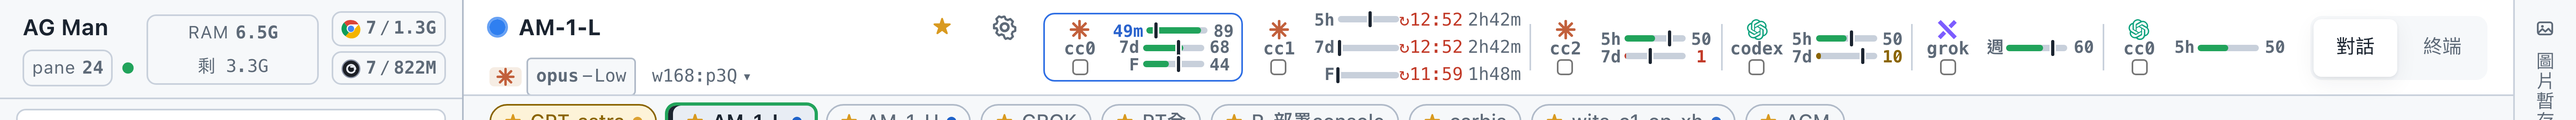
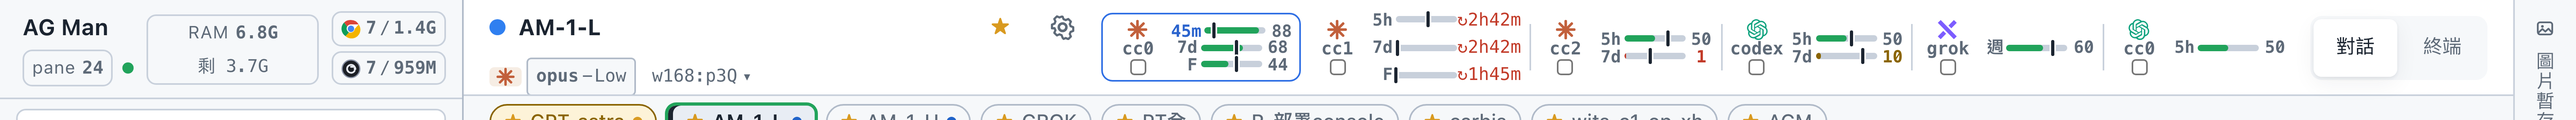
fix(quota): 用完那格只留倒數，不寫重置時刻
使用者 2026-09-14：「不需要重置時間，只要 xhym 就好」。鐘點要自己跟現在對照才知道還要等多久，
倒數本身就是答案；完整時刻留在滑鼠提示。

Claude-Session: https://claude.ai/code/session_015AsYKQxZHA6CNxAefNc7DK

diff --git a/web/src/lib/quotaReset.ts b/web/src/lib/quotaReset.ts
@@ -1,24 +1,12 @@
 /**
- * 「這一格已經沒額度了，幾點回來」——用完的視窗要寫出**重置時刻**並倒數（2026-09-14 使用者：
- * 「當已 0 且 reset 天數 < 3 小時，標示 3:25 的重置時間且自動倒數」）。
+ * 「這一格已經沒額度了，還要等多久」——用完的視窗改寫倒數（2026-09-14 使用者：先要「重置時刻
+ * ＋倒數」，同日再改成「不需要重置時間，只要 xhym 就好」——鐘點要自己換算，倒數直接就是答案）。
  *
  * 為什麼只在這兩個條件下才寫：額度還有的時候，人要看的是「還剩多少」；歸零之後那個數字不再變，
  * 唯一有用的資訊變成「什麼時候能再跑」。而重置在三小時以外時寫個鐘點也沒有意義（那是明天的事，
  * 量表旁邊的刻度已經說了），所以門檻設在三小時內——那是「等一下就回來、值得等」的範圍。
  */
 export const RESET_SOON_MS = 3 * 60 * 60 * 1000
-
-export interface ResetBadge {
-  /** 重置時刻，當地時間的 `3:25`。 */
-  at: string
-  /** 還要多久，`2h41m` / `12m`；跟量表旁邊那個緊縮寫法一致。 */
-  left: string
-}
-
-function clock(t: number): string {
-  const d = new Date(t)
-  return `${d.getHours()}:${String(d.getMinutes()).padStart(2, '0')}`
-}
 
 function short(ms: number): string {
   const m = Math.max(0, Math.ceil(ms / 60_000))
@@ -27,17 +15,17 @@ function short(ms: number): string {
 }
 
 /**
- * 這一格現在要不要寫重置時刻？`remainingPct` 是**剩餘**百分比（跟量表同一個數字）。
+ * 這一格現在要不要寫倒數？`remainingPct` 是**剩餘**百分比（跟量表同一個數字）。
  *
  * 回 `null` 的情況：還有額度、沒有重置時間、時間讀不出來、或重置在三小時之外。已經過了重置時刻
  * （下一次輪詢還沒把數字更新回來）也回 `null`：那時候該說的是「回來了」，不是倒數負數。
  */
-export function resetBadge(remainingPct: number | null | undefined, resetsAt: string | null | undefined, now: number): ResetBadge | null {
+export function resetBadge(remainingPct: number | null | undefined, resetsAt: string | null | undefined, now: number): string | null {
   if (remainingPct === null || remainingPct === undefined || remainingPct > 0) return null
   if (!resetsAt) return null
   const t = new Date(resetsAt).getTime()
   if (Number.isNaN(t)) return null
   const left = t - now
   if (left <= 0 || left > RESET_SOON_MS) return null
-  return { at: clock(t), left: short(left) }
+  return short(left)
 }

diff --git a/web/src/components/QuotaStrip.tsx b/web/src/components/QuotaStrip.tsx
@@ -520,9 +520,8 @@ function Gauge({
             <span key={w.name} className={`quota-compact-win ${levelOf(w)}`}>
               <span className={`quota-window-name${soon ? ' soon' : ''}`} title={soon ? `5h 還有 ${soon} 重置` : undefined}>{soon ?? w.name}</span>
               {back ? (
-                <span className="quota-reset-at" title={`用完了，${back.at} 重置（還有 ${back.left}）`}>
-                  ↻{back.at}
-                  <span className="quota-reset-left">{back.left}</span>
+                <span className="quota-reset-at" title={`用完了，還有 ${back} 重置`}>
+                  ↻{back}
                 </span>
               ) : (
                 <span className="quota-compact-pct">{w.pct === null ? '無資料' : `${fmtPct(w.pct)}%`}</span>
@@ -552,9 +551,8 @@ function Gauge({
                 markTitle={left === null ? undefined : `${w.name} 還有 ${fmtLeft(left)} 重置`}
                 instead={
                   back ? (
-                    <span className="quota-reset-at" title={`用完了，${back.at} 重置（還有 ${back.left}）`}>
-                      ↻{back.at}
-                      <span className="quota-reset-left">{back.left}</span>
+                    <span className="quota-reset-at" title={`用完了，還有 ${back} 重置`}>
+                      ↻{back}
                     </span>
                   ) : undefined
                 }

diff --git a/web/src/lib/quotaReset.test.ts b/web/src/lib/quotaReset.test.ts
@@ -5,9 +5,9 @@ import { resetBadge } from './quotaReset.ts'
 const at = (h: number, m: number) => new Date(2026, 8, 14, h, m, 0).toISOString()
 const now = new Date(2026, 8, 14, 0, 44, 0).getTime()
 
-test('歸零且三小時內重置：寫出時刻與倒數', () => {
-  assert.deepEqual(resetBadge(0, at(3, 25), now), { at: '3:25', left: '2h41m' })
-  assert.deepEqual(resetBadge(0, at(0, 56), now), { at: '0:56', left: '12m' })
+test('歸零且三小時內重置：只寫倒數（使用者 2026-09-14：不要重置時刻）', () => {
+  assert.equal(resetBadge(0, at(3, 25), now), '2h41m')
+  assert.equal(resetBadge(0, at(0, 56), now), '12m')
 })
 
 test('還有額度就不寫——那時候要看的是還剩多少', () => {

diff --git a/web/src/components/quotaLimitHit.css b/web/src/components/quotaLimitHit.css
@@ -55,7 +55,7 @@
   font-weight: 400;
 }
 
-/* 歸零且三小時內重置的那一格：寫出重置時刻與倒數（2026-09-14 使用者）。數字用等寬，
+/* 歸零且三小時內重置的那一格：只寫倒數（2026-09-14 使用者）。數字用等寬，
    每分鐘跳一次時不會左右抖動；顏色跟「用完了」一致，不另開一種語意。 */
 .quota-reset-at {
   display: inline-flex;
@@ -67,8 +67,4 @@
   font-size: 11px;
   font-variant-numeric: tabular-nums;
   white-space: nowrap;
-}
-
-.quota-reset-left {
-  color: var(--text-faint);
 }

diff --git a/docs/UI-DECISIONS.md b/docs/UI-DECISIONS.md
@@ -155,9 +155,11 @@
 使用者：「當已 0 且 reset 天數 < 3 小時，標示 3:25 的重置時間且自動倒數」。
 
 額度還有的時候，要看的是「還剩多少」；歸零之後那個 0 不會再變，唯一還在動、也唯一有用的是
-「幾點能再跑」。所以某條視窗**剩餘 0% 且重置在三小時內**時，量表右邊那個百分比換成
-`↻3:25 2h41m`（重置時刻＋倒數，每分鐘跟著跳，沿用原本那個一分鐘的計時器）。手機的緊縮列同一條
-規則，換掉的是 `0%` 那個數字。
+「還要等多久」。所以某條視窗**剩餘 0% 且重置在三小時內**時，量表右邊那個百分比換成 `↻2h41m`
+（每分鐘跟著跳，沿用原本那個一分鐘的計時器）。手機的緊縮列同一條規則，換掉的是 `0%` 那個數字。
+
+**只寫倒數、不寫重置時刻**（同日使用者第二次指示）：鐘點要自己跟現在對照才知道還要等多久，
+倒數本身就是答案。完整時刻留在滑鼠提示裡。
 
 門檻為什麼是三小時：重置在更遠的地方時寫鐘點沒有意義（那是明天的事，量表旁邊的刻度已經說了），
 三小時內才是「等一下就回來、值得等」的範圍。已經過了重置時刻（輪詢還沒把數字更新回來）就不畫
